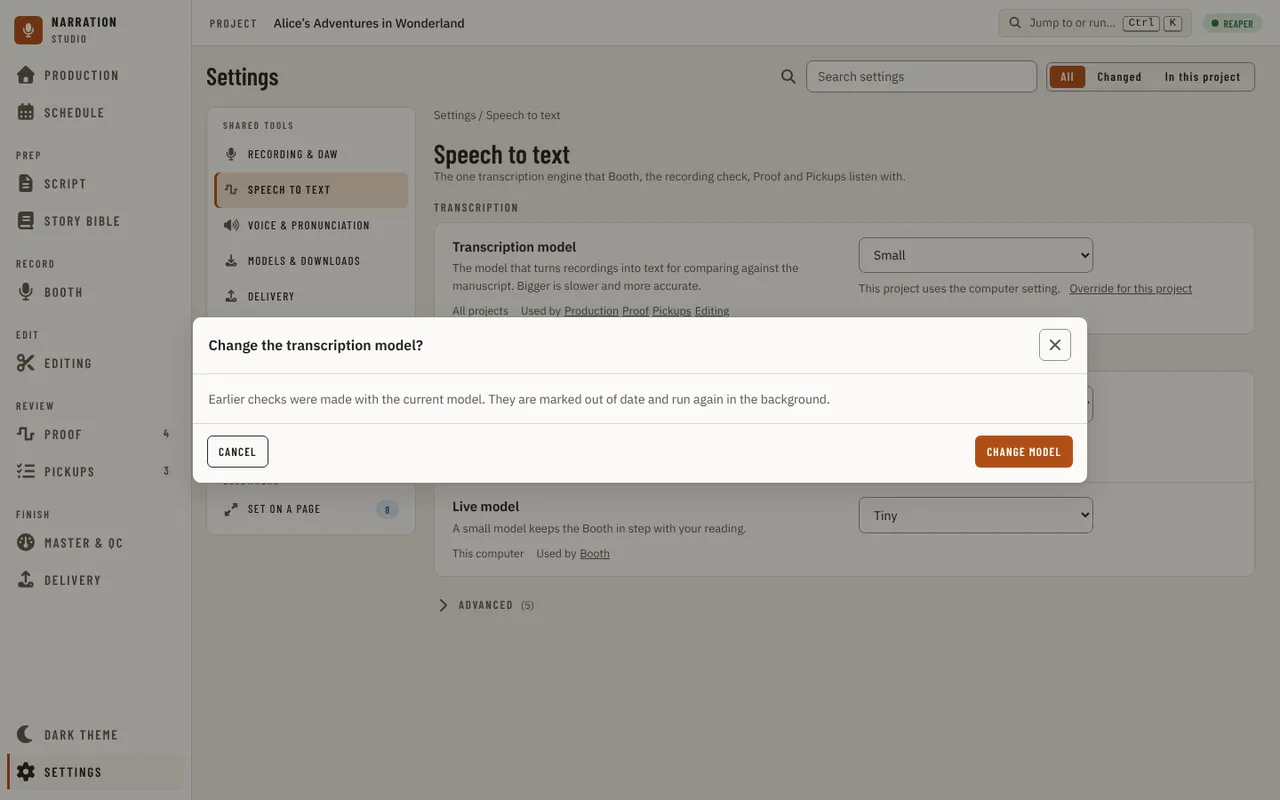
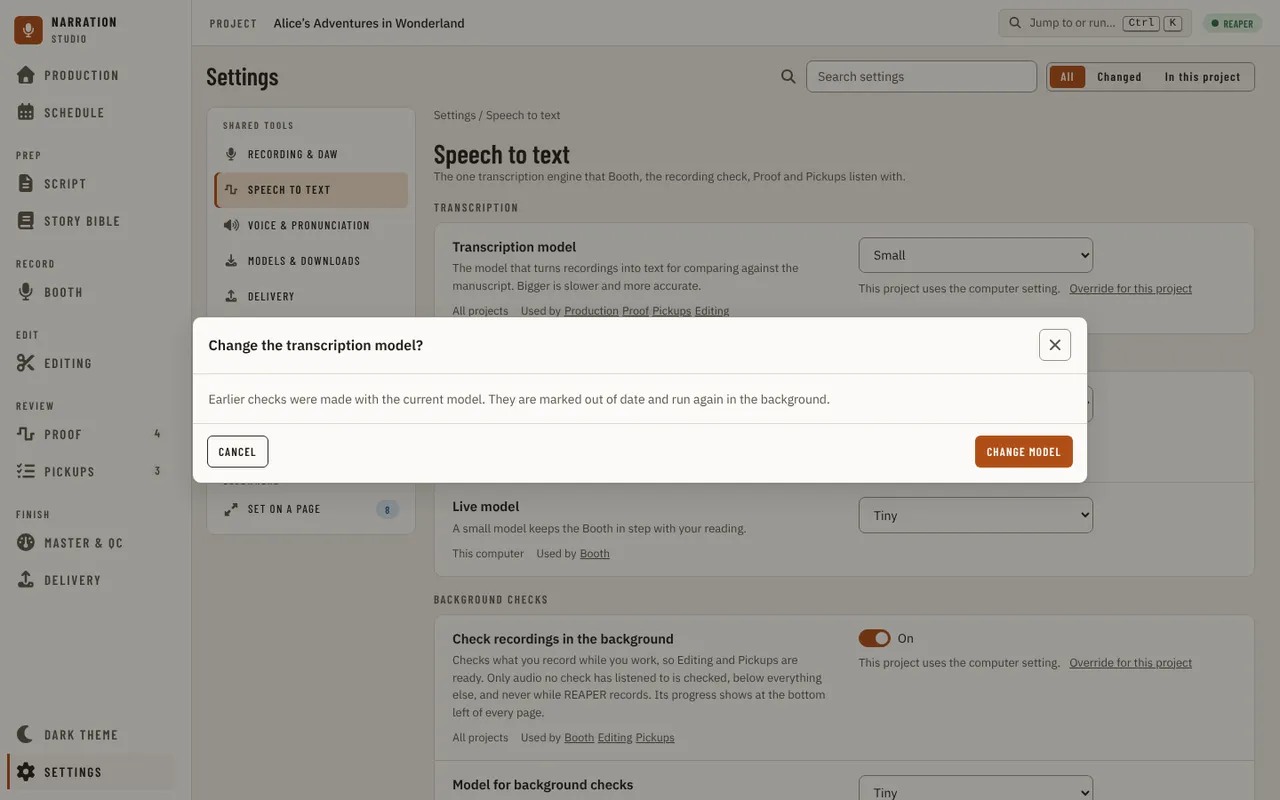
feat(ui): the background check corner folds to a chip, folded in the Booth; guide screenshots
Hide folds the corner to a one-line chip; the Booth starts it folded so it never
covers the text being read. The notice and the Not now toast name Settings >
Speech to text > Background checks. The guide gains the notice and the running
corner, and the Speech to text and Models screenshots show the new rows.

Refs #2251

Claude-Session: https://claude.ai/code/session_012n5jzdqRAZ1r21RBNt5yLr

diff --git a/apps/ui/src/components/recordingcheck/background/BackgroundCheckStatus.tsx b/apps/ui/src/components/recordingcheck/background/BackgroundCheckStatus.tsx
@@ -1,8 +1,12 @@
+import { useEffect, useState } from 'react';
 import type { ChapterSyncBackground } from '../../../api/contracts/chapterSync';
 import type { CoverageState } from '../../../api/contracts/coverage';
 import { Button } from '../../primitives/Button';
 import { ProgressBar } from '../../primitives/ProgressBar';
 import { doneText, PAUSED_TEXT, queuedText, runningDetail, runningText } from './backgroundCheckText';
+
+/** The corner's place: bottom left, over the page like the toasts at the bottom right. */
+const CORNER = 'fixed bottom-[calc(1.25rem+var(--toast-clear,0px))] left-5 z-[var(--z-toast)] shadow-[var(--shadow)]';
 
 /** What the corner shows: a check running, chapters waiting, everything done, or paused. */
 export type BackgroundCorner =
@@ -35,9 +39,9 @@ export function cornerFor({
 
 /**
  * The background check's progress, at the bottom left of every page (the toasts keep the bottom right): the chapter being
- * checked, how far, which chapter of how many, with which models, with Pause (turns background checks off) and Cancel (this check
+ * checked, how far, which chapter of how many, with which models, with Pause (turns background checks off), Cancel (this check
  * only; the host does not start it again until the chapter changes). With none running it says how many chapters wait and why,
- * that everything waiting was checked, or that checks are paused, with Resume.
+ * that everything waiting was checked, or that checks are paused, with Resume. Hide folds it to a one-line chip that opens it again.
  */
 export function BackgroundCheckStatus({
   background,
@@ -45,14 +49,35 @@ export function BackgroundCheckStatus({
   onPause,
   onCancel,
   onResume,
+  folded = false,
 }: {
   background: ChapterSyncBackground | undefined;
   corner: BackgroundCorner | undefined;
+  /** Start folded to the chip (the Booth). */
+  folded?: boolean;
   onPause: () => void;
   onCancel: () => void;
   onResume: () => void;
 }) {
+  // Hidden to a one-line chip so it never sits over a page's own controls for long; it opens again on a press. The Booth starts with it
+  // folded, so it never covers the text being read.
+  const [collapsed, setCollapsed] = useState(folded);
+  useEffect(() => {
+    if (folded) setCollapsed(true);
+  }, [folded]);
   if (!corner) return null;
+  const collapsible = corner.kind === 'running' || corner.kind === 'queued';
+  if (collapsed && collapsible) {
+    const short =
+      corner.kind === 'running' ? `Checking in the background · ${Math.round(corner.state.percent)}%` : `${background?.queued ?? 0} waiting to be checked`;
+    return (
+      <section aria-label="Background recording check" data-background-check={corner.kind} className={`${CORNER} rounded-[var(--radius-button)]`}>
+        <Button size="sm" variant="secondary" aria-expanded={false} onClick={() => setCollapsed(false)}>
+          {short}
+        </Button>
+      </section>
+    );
+  }
   const headline =
     corner.kind === 'running'
       ? runningText(corner.title, corner.state)
@@ -65,7 +90,7 @@ export function BackgroundCheckStatus({
     <section
       aria-label="Background recording check"
       data-background-check={corner.kind}
-      className="fixed bottom-[calc(1.25rem+var(--toast-clear,0px))] left-5 z-[var(--z-toast)] flex w-[min(22rem,calc(100vw-2.5rem))] flex-col gap-2 rounded-[var(--radius-card)] border border-[var(--border)] bg-[var(--surface)] px-3.5 py-2.5 text-[0.8125rem] shadow-[var(--shadow)]"
+      className={`${CORNER} flex w-[min(22rem,calc(100vw-2.5rem))] flex-col gap-2 rounded-[var(--radius-card)] border border-[var(--border)] bg-[var(--surface)] px-3.5 py-2.5 text-[0.8125rem]`}
     >
       <div role="status" aria-live="polite" className="flex flex-col gap-0.5">
         <span className="font-semibold">{headline}</span>
@@ -82,6 +107,9 @@ export function BackgroundCheckStatus({
               Cancel
             </Button>
           )}
+          <Button size="sm" variant="ghost" className="ml-auto" aria-expanded onClick={() => setCollapsed(true)}>
+            Hide
+          </Button>
         </div>
       )}
       {corner.kind === 'paused' && (

diff --git a/apps/ui/src/components/recordingcheck/background/BackgroundChecks.test.tsx b/apps/ui/src/components/recordingcheck/background/BackgroundChecks.test.tsx
@@ -16,12 +16,12 @@ afterEach(() => {
 });
 
 /** App's wiring: one chapter sync subscription handed down. */
-function Harness({ api }: { api: NarrationApi }) {
+function Harness({ api, folded }: { api: NarrationApi; folded?: boolean }) {
   const chapterSync = useChapterSync(api);
-  return <BackgroundChecks chapterSync={chapterSync} />;
+  return <BackgroundChecks chapterSync={chapterSync} folded={folded} />;
 }
 
-function mount(seed: MockApiSeed) {
+function mount(seed: MockApiSeed, folded = false) {
   const api = createMockApi({}, seed);
   const saveSettings = vi.spyOn(api, 'saveSettings');
   const coverageCancel = vi.spyOn(api, 'coverageCancel');
@@ -34,7 +34,7 @@ function mount(seed: MockApiSeed) {
   };
   render(
     <ApiProvider api={api}>
-      <Harness api={api} />
+      <Harness api={api} folded={folded} />
     </ApiProvider>,
   );
   // Ends the mock's held background run as a finished check, as the host's coverage:state does.
@@ -71,7 +71,7 @@ describe('BackgroundChecks', () => {
       expect(saveSettings).toHaveBeenCalledWith('RecordingCoverage', 'global', { background_checks_confirmed: 'true', background_checks: 'false' }),
     );
     await waitFor(() => expect(screen.queryByRole('alertdialog')).toBeNull());
-    expect(toast).toHaveBeenCalledWith(expect.stringContaining('Settings › Speech › Recording check'));
+    expect(toast).toHaveBeenCalledWith(expect.stringContaining('Settings › Speech to text › Background checks'));
   });
 
   it('shows a running check with its models and queue, and toasts its start once', async () => {
@@ -122,5 +122,20 @@ describe('BackgroundChecks', () => {
     await waitFor(() =>
       expect(screen.getByRole('region', { name: 'Background recording check' }).textContent).toContain('Background checks done: 1 chapter checked'),
     );
+  });
+
+  it('Hide folds the corner to a chip that opens it again', async () => {
+    mount({ backgroundChecks: 'running' });
+    fireEvent.click(await screen.findByRole('button', { name: 'Hide' }));
+    const chip = await screen.findByRole('button', { name: /Checking in the background · 42%/ });
+    expect(screen.queryByRole('button', { name: 'Pause' })).toBeNull();
+    fireEvent.click(chip);
+    expect(await screen.findByRole('button', { name: 'Pause' })).toBeTruthy();
+  });
+
+  it('starts folded in the Booth, so it never covers the text being read', async () => {
+    mount({ backgroundChecks: 'running' }, true);
+    expect(await screen.findByRole('button', { name: /Checking in the background · 42%/ })).toBeTruthy();
+    expect(screen.queryByRole('button', { name: 'Pause' })).toBeNull();
   });
 });

diff --git a/apps/ui/src/components/recordingcheck/background/BackgroundChecks.tsx b/apps/ui/src/components/recordingcheck/background/BackgroundChecks.tsx
@@ -20,9 +20,10 @@ function titleIn(titles: ReadonlyMap<string, string>, chapterId: string | undefi
 /**
  * Background recording checks, app-wide (#2251): the first-time notice before the host checks anything on its own, a toast when
  * a background check starts (`job:ended` already says when it ends), and the progress that stays on screen whatever page the
- * narrator is on, with Pause and Cancel. `chapterSync` is App's one `chaptersync:state` subscription.
+ * narrator is on, with Pause and Cancel. `chapterSync` is App's one `chaptersync:state` subscription; `folded` starts the progress folded
+ * to its chip (the Booth, where it would cover the text being read).
  */
-export function BackgroundChecks({ chapterSync }: { chapterSync: ChapterSyncState | undefined }) {
+export function BackgroundChecks({ chapterSync, folded = false }: { chapterSync: ChapterSyncState | undefined; folded?: boolean }) {
   const coverage = usePort('coverage');
   const system = usePort('system');
   const [running, setRunning] = useState<CoverageState>();
@@ -87,7 +88,7 @@ export function BackgroundChecks({ chapterSync }: { chapterSync: ChapterSyncStat
     setAnswering(true);
     void save(allow ? { background_checks_confirmed: 'true' } : { background_checks_confirmed: 'true', background_checks: 'false' })
       .then(() => {
-        if (!allow) overlay.toast('Background checks are off. Turn them on in Settings › Speech › Recording check.');
+        if (!allow) overlay.toast('Background checks are off. Turn them on in Settings › Speech to text › Background checks.');
       })
       .catch((error) => overlay.toast(describeApiError(error), { tone: 'error' }))
       .finally(() => setAnswering(false));
@@ -125,6 +126,7 @@ export function BackgroundChecks({ chapterSync }: { chapterSync: ChapterSyncStat
         onPause={pause}
         onCancel={cancel}
         onResume={resume}
+        folded={folded}
       />
       {background && needsNotice(background) && !chapterSync?.ask && (
         <BackgroundChecksNotice background={background} busy={answering} onAllow={() => answer(true)} onNotNow={() => answer(false)} />

diff --git a/apps/ui/tests/visual/drivers/global.ts b/apps/ui/tests/visual/drivers/global.ts
@@ -1,6 +1,6 @@
 // How to reach each `global` state in STATE_CATALOG (see app.drivers.ts).
 import { settlePage } from '../helpers/settle';
-import { type Driver, chooseTheme, clickVisible, compareRun, confirmDialog, freezeClock, goToPage, openProofChapter } from './shared';
+import { type Driver, chooseTheme, clickVisible, compareRun, confirmDialog, freezeClock, goToPage, openBooth, openProofChapter } from './shared';
 
 export const globalDrivers: Record<string, Driver> = {
   tooltip: async (page) => {
@@ -67,6 +67,17 @@ export const globalDrivers: Record<string, Driver> = {
       .getByRole('region', { name: 'Background recording check' })
       .getByText(/in the background · 42%/)
       .waitFor();
+  },
+  'background-check-booth': async (page) => {
+    await openBooth(page, '?mockBackgroundChecks=running');
+    await page.getByRole('button', { name: /Checking in the background · 42%/ }).waitFor();
+  },
+  'background-check-hidden': async (page) => {
+    await page.goto('/?mockBackgroundChecks=running');
+    await settlePage(page);
+    await goToPage(page, 'Editing');
+    await page.getByRole('region', { name: 'Background recording check' }).getByRole('button', { name: 'Hide' }).click();
+    await page.getByRole('button', { name: /Checking in the background · 42%/ }).waitFor();
   },
   'background-check-waiting': async (page) => {
     await page.goto('/?mockBackgroundChecks=waiting');

diff --git a/apps/ui/src/components/recordingcheck/background/BackgroundChecksNotice.tsx b/apps/ui/src/components/recordingcheck/background/BackgroundChecksNotice.tsx
@@ -6,7 +6,7 @@ import { modelPairText } from './backgroundCheckText';
 /**
  * "Check recordings in the background?" shown once, the first time the host has a changed chapter it would check on its own
  * (`background.wait` is `confirm`). Nothing starts until the narrator answers: Check in the background confirms; Not now turns
- * background checks off (Settings > Speech > Recording check turns them on again).
+ * background checks off (Settings > Speech to text > Background checks turns them on again).
  */
 export function BackgroundChecksNotice({
   background,
@@ -50,7 +50,7 @@ export function BackgroundChecksNotice({
         <li>A bar at the bottom left shows its progress on every page, with Pause and Cancel.</li>
       </ul>
       <p className="mt-3 text-sm" style={{ color: 'var(--text-muted)' }}>
-        Change the models, the processors it may use or turn it off in Settings &rsaquo; Speech &rsaquo; Recording check.
+        Change the models, the processors it may use or turn it off in Settings &rsaquo; Speech to text &rsaquo; Background checks.
       </p>
     </Dialog>
   );

diff --git a/apps/ui/tests/visual/catalog/global.ts b/apps/ui/tests/visual/catalog/global.ts
@@ -40,6 +40,16 @@ export const globalStates: StateEntry[] = [
   },
   {
     page: 'global',
+    state: 'background-check-booth',
+    description: 'A background check in progress while the Booth is open: the corner starts folded to its chip, so it never covers the text being read',
+  },
+  {
+    page: 'global',
+    state: 'background-check-hidden',
+    description: 'The background check corner folded to its one-line chip with Hide',
+  },
+  {
+    page: 'global',
     state: 'background-check-waiting',
     description: 'Two chapters waiting for a background check while REAPER records, bottom left, with Pause',
   },

diff --git a/apps/ui/src/App.tsx b/apps/ui/src/App.tsx
@@ -1067,7 +1067,7 @@ function AppRoutes() {
                 linkingDawFile: dawLink.isBusy,
               }}
             />
-            <BackgroundChecks chapterSync={chapterSync} />
+            <BackgroundChecks chapterSync={chapterSync} folded={location.pathname === '/booth'} />
             {chapterSync?.ask && (
               <ChapterSyncConsentDialog
                 projectFile={chapterSync.projectFile}

diff --git a/docs/guides/using-the-app/booth.md b/docs/guides/using-the-app/booth.md
@@ -316,7 +316,8 @@ press **Check recording** chapter by chapter.
   runs below everything else.
 - **You can see and stop it.** Its progress shows at the bottom left on every page, with the chapter, how far it has got and
   how many chapters wait. **Pause** turns background checks off (the message that follows has **Resume**), and **Cancel** stops
-  this check until the chapter changes again.
+  this check until the chapter changes again. **Hide** folds it to a one-line chip; in the Booth it starts folded, so it never
+  covers the text you read, and pressing the chip opens it.
 
 ![The first-time notice before the app checks recordings in the background](../../images/ui/background-check-notice.webp)
 
